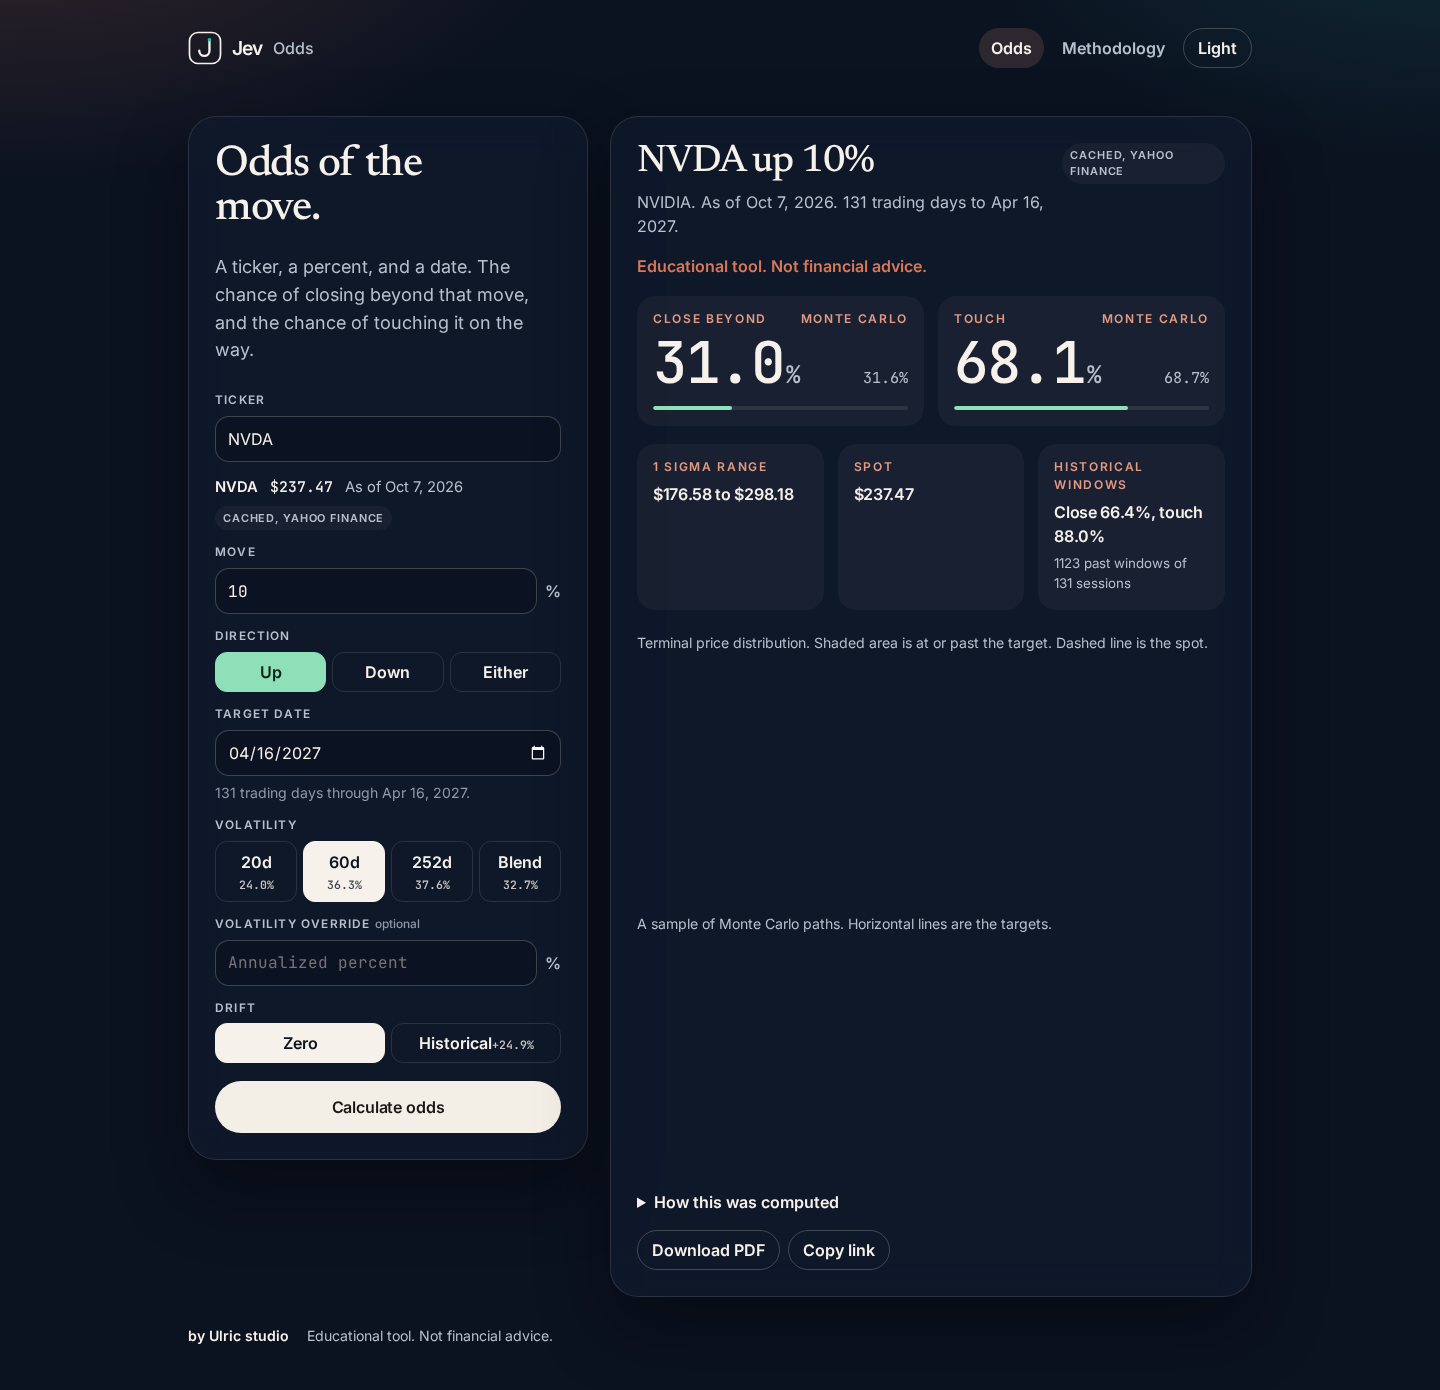
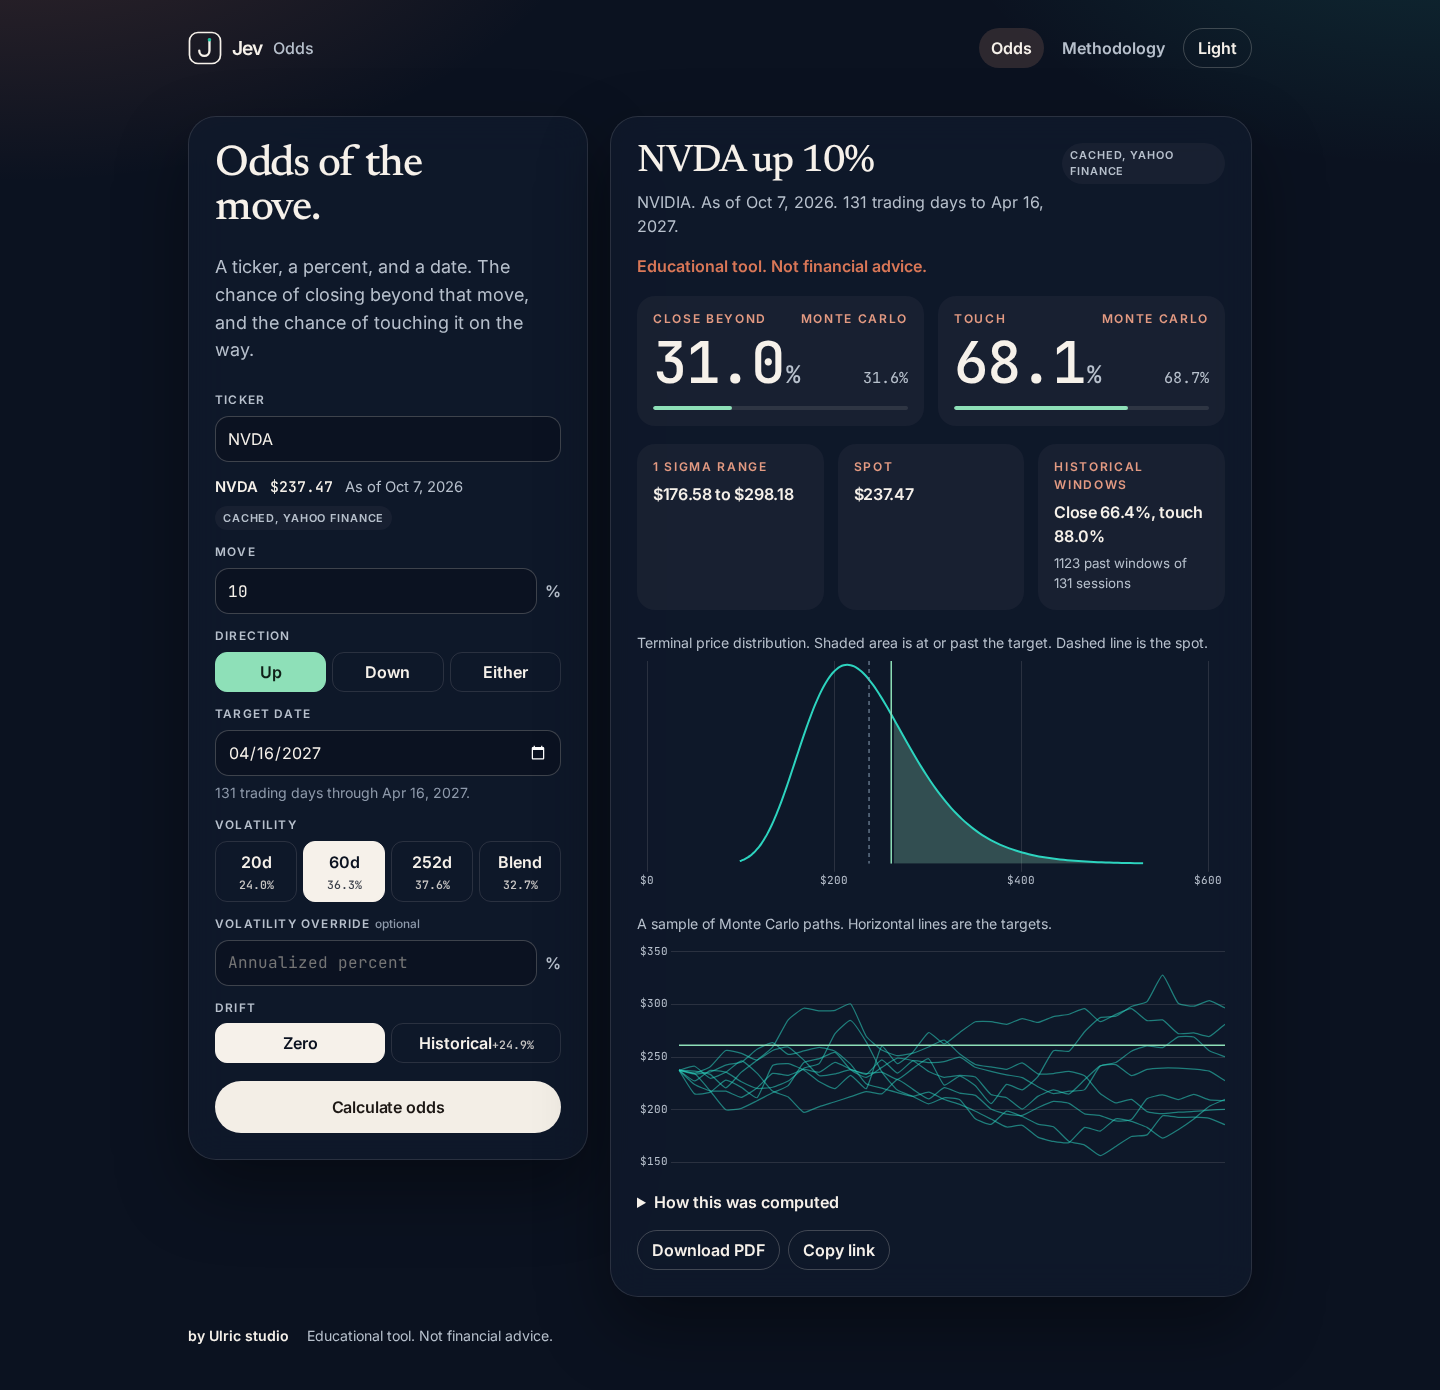
Register Chart.js scales so the distribution and path charts draw.
The result canvases stayed blank because linear and category scales were never registered. Screenshots now wait until both charts have finished painting.

Changed region(s): [[0.4688, 0.7115, 0.8438, 0.8353], [0.5938, 0.495, 0.7188, 0.6496]]

diff --git a/client/src/app/charts.ts b/client/src/app/charts.ts
@@ -1,5 +1,15 @@
 import { Component, ElementRef, effect, input, viewChild } from '@angular/core';
-import { Chart, type ChartConfiguration, type Plugin } from 'chart.js';
+import {
+  CategoryScale,
+  Chart,
+  Filler,
+  LinearScale,
+  LineController,
+  LineElement,
+  PointElement,
+  type ChartConfiguration,
+  type Plugin,
+} from 'chart.js';
 import ChartAnnotation from 'chartjs-plugin-annotation';
 import { DensityPoint } from './models';
 
@@ -9,7 +19,15 @@ function ensureCharts(): void {
   if (chartsReady) {
     return;
   }
-  Chart.register(ChartAnnotation as Plugin);
+  Chart.register(
+    LineController,
+    LineElement,
+    PointElement,
+    LinearScale,
+    CategoryScale,
+    Filler,
+    ChartAnnotation as Plugin,
+  );
   chartsReady = true;
 }
 
@@ -240,10 +258,11 @@ function drawIn(axis: 'x' | 'y'): Record<string, object> {
           return undefined;
         }
         const scale = ctx.chart.scales[axis];
-        if (!scale) {
+        const min = scale?.min;
+        if (!scale || typeof min !== 'number' || !Number.isFinite(min)) {
           return undefined;
         }
-        return scale.getPixelForValue(scale.min);
+        return scale.getPixelForValue(min);
       },
     },
   };
